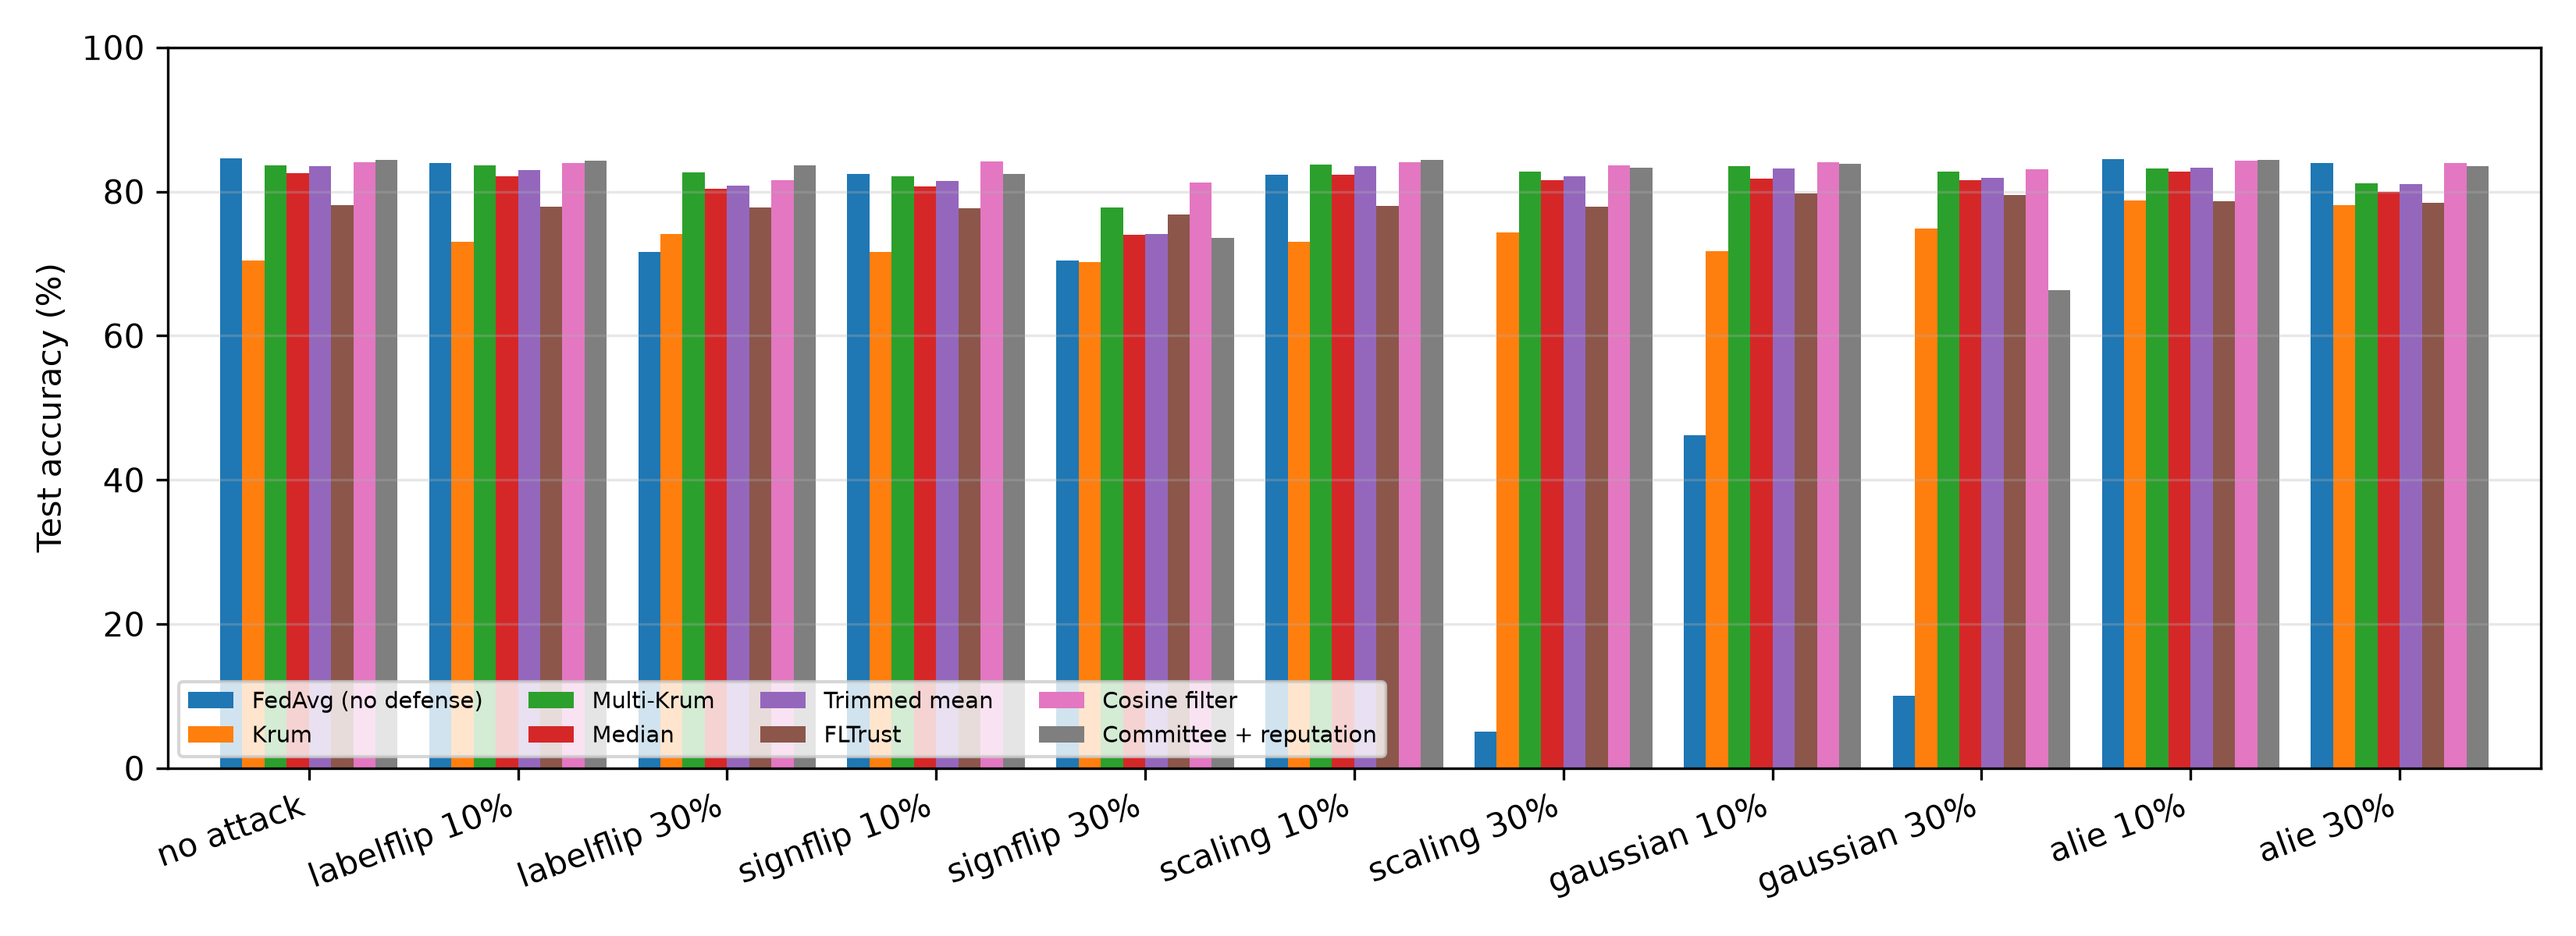
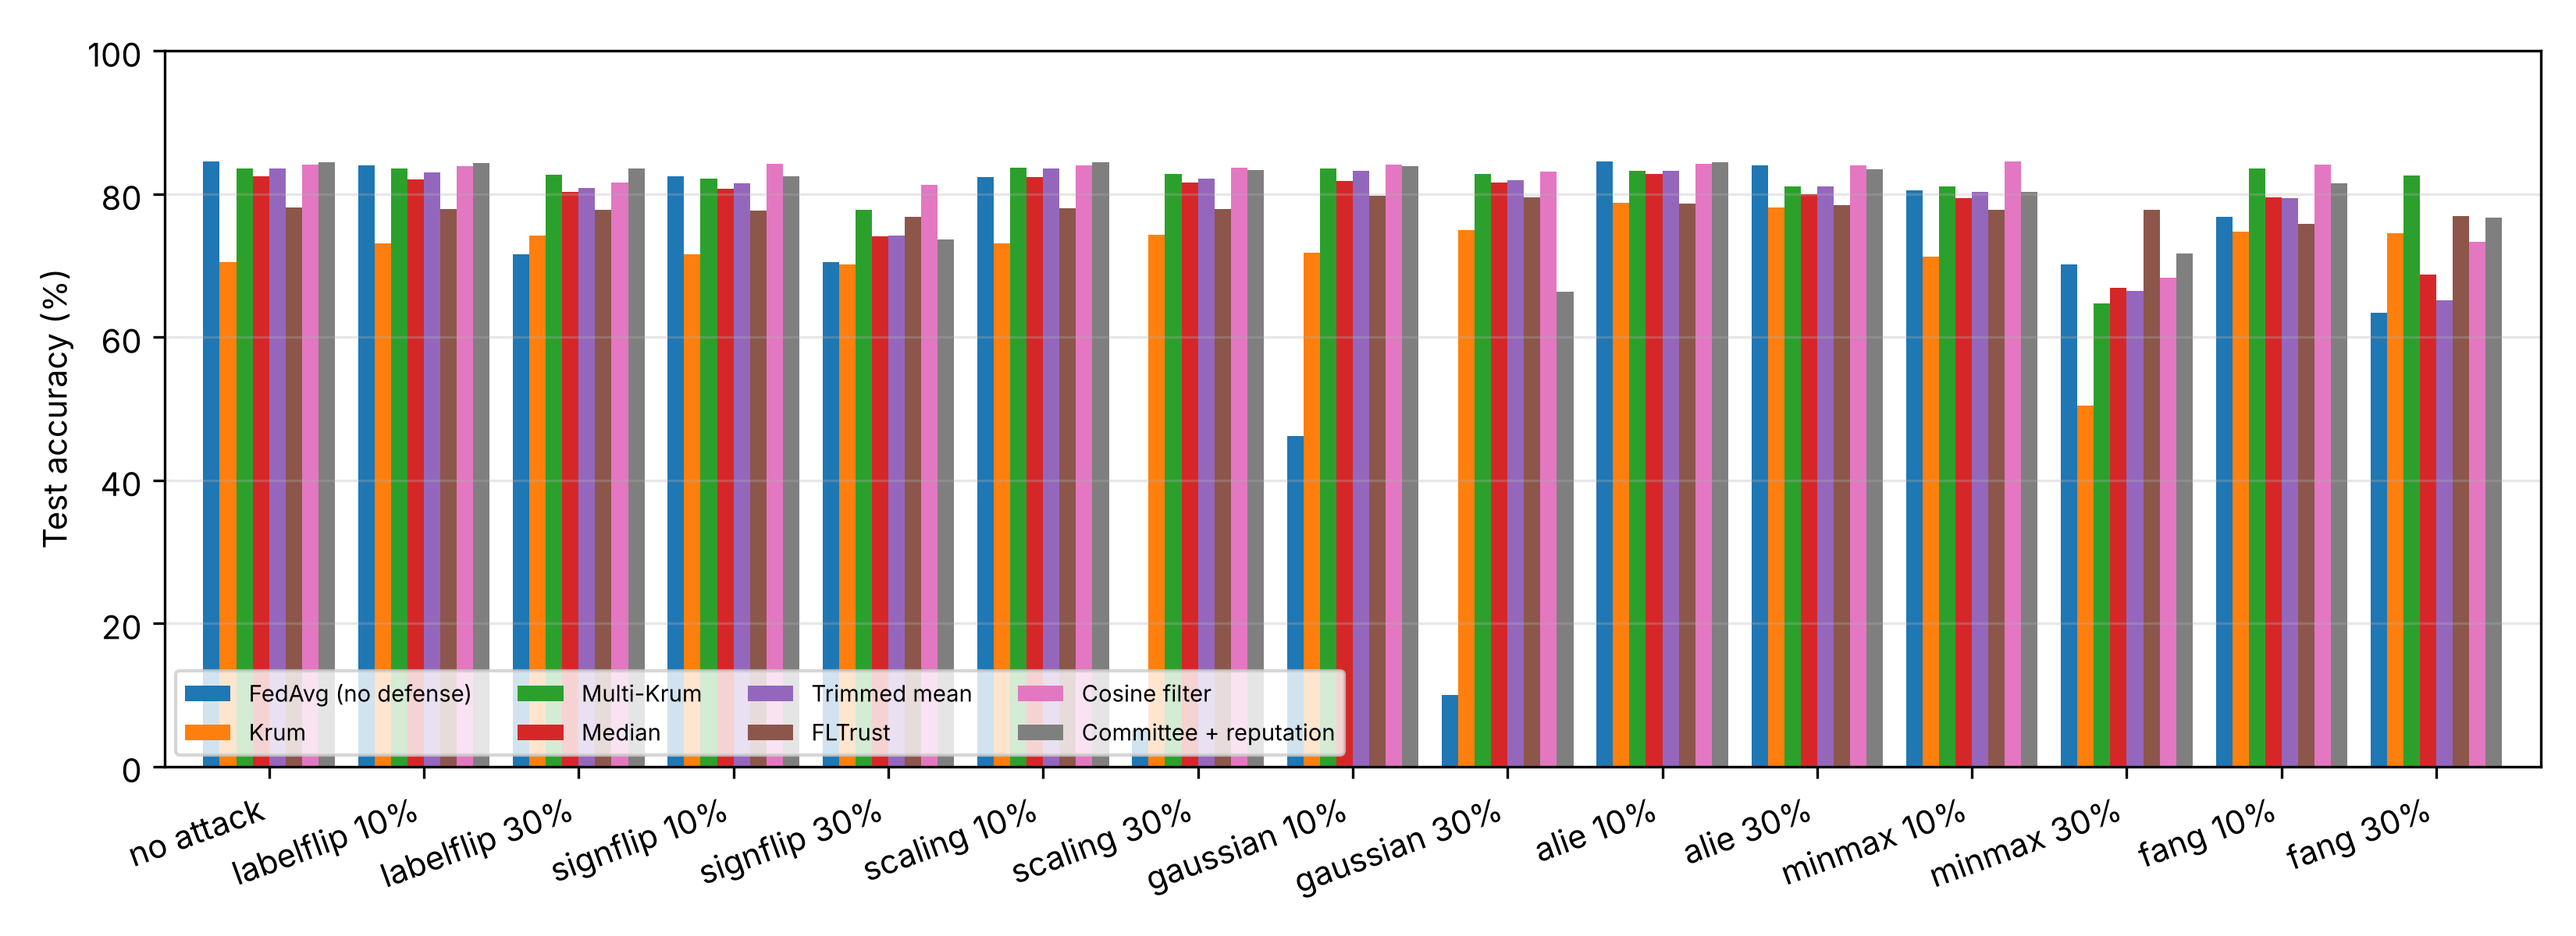
Add Min-Max and Fang attacks (v1.1)

diff --git a/bfl_bench.py b/bfl_bench.py
@@ -1,9 +1,11 @@
 """
 Small, reproducible benchmark of poisoning defenses for (blockchain-based) federated learning.
 
-One representative defense per detection family reviewed in the paper is run under identical
-conditions (same data split, same attacks, same malicious clients, same seeds):
+Statistical and similarity-based aggregation rules, a trust-based filter (FLTrust), and a simplified
+emulation of committee-based blockchain detection are run under the same data split, the same
+malicious clients, and the same seeds. Learning-based anomaly detectors are not included.
 
+Aggregation rules:
   fedavg      no defense (weighted federated averaging)
   krum        Krum (Blanchard et al., 2017)
   multikrum   Multi-Krum (Blanchard et al., 2017)
@@ -27,6 +29,14 @@ Attacks (applied by a fixed set of malicious clients):
   alie        "A little is enough" (Baruch et al., 2019): malicious clients estimate the mean and
               standard deviation of honest updates from their own honest updates and all send
               mean - z * std, with z chosen so the update stays inside the spread of honest updates
+  minmax      AGR-agnostic Min-Max attack (Shejwalkar and Houmansadr, NDSS 2021), full knowledge:
+              all malicious clients send mean - gamma * u, where u is the unit vector of the mean
+              honest update and gamma is the largest value (found by binary search) for which the
+              malicious update is no farther from any honest update than the largest distance
+              between two honest updates
+  fang        full-knowledge trimmed-mean attack of Fang et al. (USENIX Security 2020): for every
+              coordinate, each malicious client sends a value drawn beyond the smallest (or largest)
+              honest value, on the side opposite to the direction of the mean honest update (b = 2)
 
 Results are appended to a CSV file, one line per run; finished runs are skipped on restart,
 so the script can be stopped and resumed at any time.
@@ -49,7 +59,7 @@ import torch.nn as nn
 import torch.nn.functional as F
 
 DEFENSES = ["fedavg", "krum", "multikrum", "median", "trimmed", "fltrust", "cosine", "committee"]
-ATTACKS = ["none", "labelflip", "signflip", "scaling", "gaussian", "alie"]
+ATTACKS = ["none", "labelflip", "signflip", "scaling", "gaussian", "alie", "minmax", "fang"]
 FILTERING = {"krum", "multikrum", "fltrust", "cosine", "committee"}  # defenses that flag clients
 
 
@@ -164,6 +174,52 @@ def krum_select(U, f, m):
     D.fill_diagonal_(float("inf"))
     scores = D.topk(k, dim=1, largest=False).values.sum(1)
     return scores.argsort()[:m]
+
+
+def minmax_update(B, tol=1e-5, max_iter=100):
+    """AGR-agnostic Min-Max attack (Shejwalkar and Houmansadr, NDSS 2021, Algorithm 1).
+
+    B holds the honest updates known to the attacker (one per row). The malicious update is
+    mu - gamma * u with u = mu / ||mu|| (the "inverse unit vector" perturbation), where gamma is the
+    largest value for which the maximum distance from the malicious update to any honest update
+    does not exceed the maximum distance between two honest updates.
+    """
+    mu = B.mean(0)
+    u = mu / mu.norm().clamp_min(1e-12)
+    bound = pairwise_sq_dists(B).max()
+    # gamma cannot exceed twice the largest honest distance; the search covers [0, 2 * gamma_init]
+    gamma_init = 2 * bound.sqrt().item()
+    def ok(g):
+        return ((B - (mu - g * u)[None, :]) ** 2).sum(1).max() <= bound
+    gamma, step, gamma_succ = gamma_init, gamma_init, 0.0
+    for _ in range(max_iter):
+        if abs(gamma_succ - gamma) <= tol:
+            break
+        if ok(gamma):
+            gamma_succ = gamma
+            gamma = gamma + step / 2
+        else:
+            gamma = gamma - step / 2
+        step = step / 2
+    return mu - gamma_succ * u, gamma_succ
+
+
+def fang_updates(B, n_mal, gen, b=2.0):
+    """Full-knowledge trimmed-mean attack (Fang et al., USENIX Security 2020, Section 4).
+
+    For coordinate j, s_j is the sign of the mean honest update. Where s_j > 0, every malicious
+    client draws its value uniformly from [min_j / b, min_j] if min_j > 0, or from [b * min_j, min_j]
+    otherwise; where s_j <= 0, from [max_j, b * max_j] if max_j > 0, or from [max_j / b, max_j]
+    otherwise. min_j and max_j are taken over the honest updates.
+    """
+    s = B.mean(0) > 0
+    lo, hi = B.min(0).values, B.max(0).values
+    a_low = torch.where(lo > 0, lo / b, lo * b)        # interval [a_low, lo] for s_j > 0
+    a_high = torch.where(hi > 0, hi * b, hi / b)       # interval [hi, a_high] for s_j <= 0
+    r = torch.rand(n_mal, B.shape[1], generator=gen)
+    low_vals = a_low + r * (lo - a_low)
+    high_vals = hi + r * (a_high - hi)
+    return torch.where(s[None, :], low_vals, high_vals)
 
 
 def aggregate(defense, U, sizes, f, ctx):
@@ -310,6 +366,13 @@ def run_one(cfg, data, dataset, attack, ratio, defense, seed, device):
             own = U[mal_t]                       # honest updates computed on the attackers' own data
             mu, sd = own.mean(0), own.std(0, unbiased=False)
             U[mal_t] = (mu - alie_z * sd)[None, :]
+        elif attack == "minmax" and n_mal > 0:
+            mal_t = torch.as_tensor(malicious)
+            u_mal, _ = minmax_update(U.clone())           # honest updates of all clients
+            U[mal_t] = u_mal[None, :]
+        elif attack == "fang" and n_mal > 0:
+            mal_t = torch.as_tensor(malicious)
+            U[mal_t] = fang_updates(U.clone(), n_mal, gen)  # honest updates of all clients
         ctx["gvec"] = gvec.cpu()
         ta = time.time()
         agg, mask = aggregate(defense, U, sizes, f, ctx)

diff --git a/summarize.py b/summarize.py
@@ -23,7 +23,7 @@ ORDER = ["fedavg", "krum", "multikrum", "median", "trimmed", "fltrust", "cosine"
 NAMES = {"fedavg": "FedAvg (no defense)", "krum": "Krum", "multikrum": "Multi-Krum",
          "median": "Median", "trimmed": "Trimmed mean", "fltrust": "FLTrust",
          "cosine": "Cosine filter", "committee": "Committee + reputation"}
-ATT_ORDER = ["none", "labelflip", "signflip", "scaling", "gaussian", "alie"]
+ATT_ORDER = ["none", "labelflip", "signflip", "scaling", "gaussian", "alie", "minmax", "fang"]
 
 
 def col_label(att, r):

diff --git a/README.md b/README.md
@@ -5,8 +5,8 @@ Code and results for the controlled comparative experiment in the review
 Blockchain-based Federated Learning".
 
 The experiment compares statistical and similarity-based aggregation rules, a trust-based
-filter (FLTrust), and a simplified emulation of committee-based blockchain detection under
-identical conditions (same non-IID data split, same malicious clients, same seeds), and measures
+filter (FLTrust), and a simplified emulation of committee-based blockchain detection with the
+same non-IID data split, the same malicious clients, and the same seeds, and measures
 the gas cost of a minimal on-chain integrity layer. Learning-based anomaly detectors are not
 included.
 
@@ -18,14 +18,23 @@ included.
   and a non-omniscient form of the adaptive "a little is enough" attack (ALIE, Baruch et al.,
   2019), in which the attackers compute honest updates on their own data in every round and send
   mean - z * std of those updates (they do not see honest clients' updates), with
-  z = Phi^-1((n - s) / n), s = floor(n / 2 + 1) - m, so z = 0.20 for 10% and 0.77 for 30% attackers.
-  Variants in which the attackers also see the honest clients' updates can be stronger.
+  z = Phi^-1((n - s) / n), s = floor(n / 2 + 1) - f for f attackers, so z = 0.20 for 10% and 0.77
+  for 30% attackers.
+* Two full-knowledge attacks, in which the attackers see the honest updates of all clients:
+  * `minmax`: the AGR-agnostic Min-Max attack (Shejwalkar and Houmansadr, NDSS 2021). All attackers
+    send mean - gamma * u, where u is the unit vector of the mean honest update and gamma is the
+    largest value (binary search) for which the malicious update is no farther from
+    any honest update than the largest distance between two honest updates.
+  * `fang`: the full-knowledge trimmed-mean attack of Fang et al. (USENIX Security 2020). For every
+    coordinate, each attacker draws a value beyond the smallest (or largest) honest value, on the side
+    opposite to the direction of the mean honest update (b = 2), so the attackers send different
+    updates.
 * Attacker shares: 10% and 30% malicious clients, plus a no-attack setting.
 * Defenses: FedAvg (no defense), Krum, Multi-Krum, coordinate-wise median, trimmed mean,
   FLTrust (100-sample root set), cosine-similarity filter (mean - 1 std rule), and a
   committee-validation scheme with reputation weighting that emulates blockchain-native
   detection (5-member committee drawn each round; colluding members vote for malicious updates).
-* 3 seeds (1, 2, 3) per setting: 264 runs per dataset, 528 runs in total.
+* 3 seeds (1, 2, 3) per setting: 360 runs per dataset, 720 runs in total.
 
 ## Detection metrics (Table 13)
 
@@ -38,8 +47,8 @@ updates were rejected (`bfl_bench.py`, variables `tp`, `fp`, `fn`, `tn`):
 Table 13 reports the mean of these two values over the three seeds. Rules that keep a fixed
 number of updates give fixed rates by construction: Krum keeps one update per round, so its
 false-positive rate is 44/45 (10% attackers) or 34/35 (30% attackers); Multi-Krum always
-discards m updates, so when it accepts every ALIE update its false-positive rate is 5/45 or
-15/35. Table 13 lists Multi-Krum, FLTrust, the cosine filter and the committee; Krum (fixed
+discards f updates (f = number of malicious clients), so when it accepts every malicious update
+its false-positive rate is 5/45 or 15/35. Table 13 lists Multi-Krum, FLTrust, the cosine filter and the committee; Krum (fixed
 rates, see above) is in `results.csv` but not in Table 13, and the median and the trimmed mean
 do not accept or reject whole updates.
 
@@ -52,7 +61,7 @@ do not accept or reject whole updates.
 | `gas_bench.py` | Gas cost of the on-chain layer on a local in-memory Ethereum chain |
 | `FLLedger.sol` | Smart contract measured by `gas_bench.py` (compiled bytecode is embedded) |
 | `requirements-lock.txt` | Exact package versions used to produce `results.csv` |
-| `results.csv` | Results of the 528 runs reported in the paper (Tables 12 and 13) |
+| `results.csv` | Results of the 720 runs reported in the paper (Tables 12 and 13) |
 | `gas_results.csv` | Gas measurements reported in the paper |
 | `summary/` | Tables and figure produced by `summarize.py` |
 
@@ -62,7 +71,8 @@ Python 3.10 or newer.
 
     pip install -r requirements.txt               # or requirements-lock.txt for the exact versions used
     python bfl_bench.py --quick                  # smoke test, about 2 minutes
-    python bfl_bench.py --datasets mnist fmnist  # full grid (528 runs), about 14 hours on a laptop CPU
+    python bfl_bench.py --datasets mnist fmnist  # full grid (720 runs), about 19 hours on a laptop CPU
+    python bfl_bench.py --datasets mnist fmnist --attacks minmax fang  # only the two full-knowledge attacks (192 runs)
     python summarize.py                          # tables and figures in summary/
 
 `summary/table_accuracy_<dataset>.csv` corresponds to Table 12 and
@@ -71,7 +81,9 @@ Python 3.10 or newer.
 options of `bfl_bench.py` with the defaults used in the paper; `python bfl_bench.py --help`
 lists them. Runs are appended to `results.csv`, so an interrupted run can be resumed by
 starting the same command again. Results were produced on CPU (PyTorch 2.14, Python 3.14);
-small numerical differences can occur on other hardware.
+small numerical differences can occur on other hardware. The 192 runs of the `minmax` and `fang`
+attacks, added in release v1.1, were produced on a second Windows machine (CPU, Python 3.14) with
+the packages in `requirements.txt`.
 
 Gas measurement (on Windows the install needs the Microsoft C++ Build Tools;
 it installs directly on Linux, macOS and Google Colab):
@@ -89,6 +101,11 @@ identity management or production consensus.
 This is a small, illustrative benchmark: two image datasets, 50 clients, a small model, and a
 simplified emulation of committee-based blockchain validation. It is meant to show how the defense families
 compare under identical conditions, not to rank published systems.
+
+## Changes in v1.1
+
+* Two full-knowledge attacks, Min-Max (`minmax`) and Fang (`fang`): 192 new runs, 720 in total.
+* Notation in this README aligned with the paper (f = number of malicious clients).
 
 ## License
 
